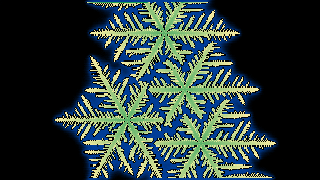
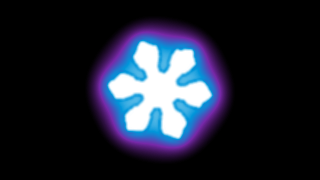
2.0.0-beta.2: three paces restored to 0.1, real numbers on the speed slider (default /5 to x5, dead centre), the Lichtenberg processor-path cascade fixed, a palette per automaton, automata stills rendered on the processor path

diff --git a/morphogen.js b/morphogen.js
@@ -580,8 +580,8 @@
     id: "lenia", family: "ca", name: "Lenia", lattice: "square", channels: 2, grid: "ladder", maxRung: 7, keeps: true, glow: { blur: 0.8, decay: 0.85 },
     source: "B. W.-C. Chan, Complex Systems 28(3) (2019), arXiv:1812.05433",
     params: [
-      { key: "mu", label: "Growth center", min: 0.05, max: 0.40, step: 0.001, def: 0.15 },
-      { key: "sigma", label: "Growth width", min: 0.005, max: 0.050, step: 0.001, def: 0.016 }
+      { key: "mu", label: "Growth center", min: 0.05, max: 0.40, step: 0.001, def: 0.133 },     // owner's centres, 2026-10-09
+      { key: "sigma", label: "Growth width", min: 0.005, max: 0.050, step: 0.001, def: 0.011 }
     ],
     extra: { R: 13, T: 10 },
     init: function () { return [[0, 0, 0, 1]]; },
@@ -718,9 +718,13 @@
             }
             F.set(F2);
           }
+          // the growth sweep reads the discharge as it stood before the sweep (as the graphics path does): updating in
+          // place let a cell that had just broken down make its right and lower neighbours eligible in the same sweep,
+          // which filled a solid block from the seed to the far corner (processor-path defect found 2026-10-09)
+          var G0 = st.g0 && st.g0.length === G.length ? st.g0 : (st.g0 = new Float32Array(G.length)); G0.set(G);
           for (var y2 = 1; y2 < H - 1; y2++) for (var x2 = 1; x2 < W - 1; x2++) {
-            var j = y2 * W + x2; if (G[j] > 0) continue;
-            if ((G[j + 1] > 0 || G[j - 1] > 0 || G[j + W] > 0 || G[j - W] > 0) && rnd() < rate * Math.pow(Math.max(F[j], 0), eta)) { G[j] = X.step; F[j] = 0; }
+            var j = y2 * W + x2; if (G0[j] > 0) continue;
+            if ((G0[j + 1] > 0 || G0[j - 1] > 0 || G0[j + W] > 0 || G0[j - W] > 0) && rnd() < rate * Math.pow(Math.max(F[j], 0), eta)) { G[j] = X.step; F[j] = 0; }
           }
         }
       },
@@ -1766,7 +1770,7 @@
     var familyBtns = $$(scope, "family"), presets = $$(scope, "preset"), notes = $$(scope, "note");
     var p1Range = $(scope, "feed-range"), p1Number = $(scope, "feed-number");
     var p2Range = $(scope, "kill-range"), p2Number = $(scope, "kill-number");
-    var scaleRange = $(scope, "scale-range"), scaleNumber = $(scope, "scale-number");
+    var scaleRange = $(scope, "scale-range"), scaleNumber = $(scope, "scale-number"), speedTicks = $(scope, "speed-ticks");
     var pauseBtn = $(scope, "pause"), resetBtn = $(scope, "reset"), seedBtn = $(scope, "seed");
     var colorsToggle = $(scope, "colors-toggle"), colorsMenu = $(scope, "colors-menu"), paletteRadios = $$(scope, "palette-option");
     var motionBtn = $(scope, "motion"), motionCheck = $(scope, "motion-check"), quality = $(scope, "quality"), measure = $(scope, "measure"), stateLine = $(scope, "state");
@@ -1774,10 +1778,12 @@
     var modeWord = $(scope, "mode"), loading = $(scope, "loading"), brushSel = $(scope, "brush");
     var status = $(scope, "status"), steps = $(scope, "steps");
     var current = null, currentFamily = null, currentPalette = null, thumbs = [], seedClicks = 0;
-    // Speed rides a logarithmic slider centred on the preset's own speed: the slider runs 0 … 1 and maps to
-    // speedDef / 5 … speedDef × 5, so every preset starts mid-range (owner ruling 2026-10-09)
+    // Speed: the preset's own speed sits dead centre and the range runs speedDef / 5 … speedDef × 5 (owner rulings of
+    // 2026-10-09). A native range track is linear in its own value, so the track position is logarithmic and the REAL
+    // speed is what is shown: the value box, the min / default / max labels under the track, and aria-valuetext.
     var speedDef = DEFAULTS.timeScale, SPEED_K = 5;
     function speedFromSlider(s) { return speedDef * Math.pow(SPEED_K, (s - 0.5) * 2); }
+    function fmtSpeed(v) { return v >= 10 ? v.toFixed(1) : v >= 1 ? v.toFixed(2) : v.toFixed(3); }
     function sliderFromSpeed(v) { return clamp(0.5 + Math.log(v / speedDef) / Math.log(SPEED_K) / 2, 0, 1); }
 
     function say(text) { if (status) status.textContent = text; }
@@ -1800,14 +1806,17 @@
       });
       if (p1Label) p1Label.textContent = m.params[0].label + ":"; if (p2Label) p2Label.textContent = m.params[1].label + ":";
       if (p1NumLabel) p1NumLabel.textContent = m.params[0].label + ", exact value"; if (p2NumLabel) p2NumLabel.textContent = m.params[1].label + ", exact value";
+      var sLo = +(speedDef / SPEED_K).toFixed(3), sHi = +(speedDef * SPEED_K).toFixed(3);
       if (scaleRange) { scaleRange.min = "0"; scaleRange.max = "1"; scaleRange.step = "0.005"; }
-      if (scaleNumber) { scaleNumber.min = String(+(speedDef / SPEED_K).toFixed(3)); scaleNumber.max = String(+(speedDef * SPEED_K).toFixed(3)); scaleNumber.step = "0.005"; }
+      if (scaleNumber) { scaleNumber.min = String(sLo); scaleNumber.max = String(sHi); scaleNumber.step = "0.005"; }
+      if (speedTicks) speedTicks.innerHTML = "<span>" + fmtSpeed(sLo) + "</span><span>" + fmtSpeed(speedDef) + "</span><span>" + fmtSpeed(sHi) + "</span>";
     }
     function syncInputs() {
       var m = field.model(), P = field.params(), a = m.params[0], b = m.params[1], t = field.getParams().timeScale;
       if (p1Range) p1Range.value = fmtStep(P[a.key], a.step); if (p1Number) p1Number.value = fmtStep(P[a.key], a.step);
       if (p2Range) p2Range.value = fmtStep(P[b.key], b.step); if (p2Number) p2Number.value = fmtStep(P[b.key], b.step);
-      if (scaleRange) scaleRange.value = sliderFromSpeed(t).toFixed(3); if (scaleNumber) scaleNumber.value = t.toFixed(3);
+      if (scaleRange) { scaleRange.value = sliderFromSpeed(t).toFixed(3); scaleRange.setAttribute("aria-valuetext", fmtSpeed(t) + " (speed; " + fmtSpeed(speedDef) + " is this pattern's own)"); }
+      if (scaleNumber) scaleNumber.value = t.toFixed(3);
     }
     function currentName() { return current ? current.name : "custom"; }
     function updateState() {
@@ -1971,11 +1980,16 @@
   var PRESETS = [
     // —— reaction–diffusion: Gray–Scott in eight regimes, and the phase-field dendrite ——
     // the owner's defaults of 2026-10-09: palette, rates, speed (timeScale) and brush per pattern; each slider is
+    // (automata palettes, one per tile, are the operator's placement of 2026-10-09 except Frost's Cherenkov, which is
+    // the owner's; open for ruling)
+    // (Malachite, Meandric and Xylem were dictated as 0.040 against a build whose speed floor was 0.1: they ran at
+    // 0.1 when approved, and 0.1 is what they keep; the floor was lowered the same day, which is what had made them
+    // 2.5x slower than approved - the 2.0.0-beta.2 correction)
     // centred on these (the binding tailors the ranges), so every pattern starts mid-range
-    { id: "malachite",   family: "rd", name: "Malachite",   model: "gray-scott", palette: "canopy",   params: { feed: 0.008, kill: 0.031 }, timeScale: 0.04, brush: 0.02, seed: { type: "pacemaker", n: 1, r: 3, every: 75 }, firstSeed: "spec", chrono: 420 },
-    { id: "meandric",    family: "rd", name: "Meandric",    model: "gray-scott", palette: "physarum", params: { feed: 0.024, kill: 0.054 }, timeScale: 0.04, brush: 0.02, seed: { type: "spiral", n: 21, r: 3 }, chrono: 2400 },
+    { id: "malachite",   family: "rd", name: "Malachite",   model: "gray-scott", palette: "canopy",   params: { feed: 0.008, kill: 0.031 }, timeScale: 0.1, brush: 0.02, seed: { type: "pacemaker", n: 1, r: 3, every: 75 }, firstSeed: "spec", chrono: 420 },
+    { id: "meandric",    family: "rd", name: "Meandric",    model: "gray-scott", palette: "physarum", params: { feed: 0.024, kill: 0.054 }, timeScale: 0.1, brush: 0.02, seed: { type: "spiral", n: 21, r: 3 }, chrono: 2400 },
     { id: "swarm",       family: "rd", name: "Swarm",       model: "gray-scott", palette: "neon",     params: { feed: 0.013, kill: 0.054 }, timeScale: 2.6,  brush: 0.05, seed: { type: "spiral", n: 21, r: 3 }, chrono: 1800 },
-    { id: "xylem",       family: "rd", name: "Xylem",       model: "gray-scott", palette: "coastal",  params: { feed: 0.039, kill: 0.058 }, timeScale: 0.04, brush: 0.04, seed: { type: "spiral", n: 13, r: 4 }, chrono: 2400 },
+    { id: "xylem",       family: "rd", name: "Xylem",       model: "gray-scott", palette: "coastal",  params: { feed: 0.039, kill: 0.058 }, timeScale: 0.1, brush: 0.04, seed: { type: "spiral", n: 13, r: 4 }, chrono: 2400 },
     // Frost in this family is the phase-field dendrite: a reaction–diffusion system (Allen–Cahn plus heat)
     { id: "frost",       family: "rd", name: "Frost",       model: "dendrite",   params: {}, palette: "cherenkov", timeScale: 0.3, seed: { type: "center", r: 2 }, firstSeed: "spec", thumbSeed: { type: "spiral", n: 3, r: 1.5, spread: 0.75 }, thumbSteps: 5000, thumbScale: 4, chrono: 1600, brush: 0.004 },
     { id: "turbulence",  family: "rd", name: "Turbulence",  model: "gray-scott", palette: "accretion", params: { feed: 0.025, kill: 0.050 }, timeScale: 1.0, brush: 0.05, seed: { type: "discs", n: 7, r: 4 }, chrono: 1800 },
@@ -1994,15 +2008,15 @@
 
     // —— cellular automata ——
     { id: "ca-frost",     family: "ca", name: "Frost",       model: "snow",        params: {}, palette: "cherenkov", seed: { type: "center", r: 1 }, brush: 0.004, stepScale: 1, thumbSeed: { type: "spiral", n: 4, r: 1, spread: 0.8 }, thumbSteps: 900, thumbScale: 2, chrono: 3000 },
-    { id: "lenia",        family: "ca", name: "Lenia",       model: "lenia",       params: {}, seed: { type: "fill" }, firstSeed: "spec", brush: 0.08, stepScale: 0.1, thumbSeed: { type: "fill" }, thumbSteps: 300, chrono: 600 },
-    { id: "rotor",        family: "ca", name: "Rotor",       model: "rotor",       params: {}, seed: { type: "fill" }, firstSeed: "spec", brush: 0.08, stepScale: 0.3, thumbSeed: { type: "fill" }, thumbSteps: 260, thumbScale: 2, chrono: 400 },
-    { id: "lichtenberg",  family: "ca", name: "Lichtenberg", model: "lichtenberg", params: {}, timeScale: 0.25, seed: { type: "center", r: 2 }, firstSeed: "spec", brush: 0.004, thumbSteps: 500, thumbScale: 1.5, chrono: 1200 },
+    { id: "lenia",        family: "ca", name: "Lenia",       model: "lenia",       palette: "aurora", params: {}, timeScale: 0.25, seed: { type: "fill" }, firstSeed: "spec", brush: 0.10, stepScale: 0.3, thumbSeed: { type: "fill" }, thumbSteps: 300, chrono: 600 },
+    { id: "rotor",        family: "ca", name: "Rotor",       model: "rotor",       palette: "spectrum", params: {}, seed: { type: "fill" }, firstSeed: "spec", brush: 0.08, stepScale: 0.3, thumbSeed: { type: "fill" }, thumbSteps: 260, thumbScale: 2, chrono: 400 },
+    { id: "lichtenberg",  family: "ca", name: "Lichtenberg", model: "lichtenberg", palette: "orodruin", params: {}, timeScale: 0.25, seed: { type: "center", r: 2 }, firstSeed: "spec", brush: 0.004, thumbSteps: 500, thumbScale: 1.5, chrono: 1200 },
     // Sandpile: falling sand (owner 2026-10-09: "give the sandpile gravity"); the drop point keeps dropping until Reset
-    { id: "sandpile",     family: "ca", name: "Sandpile",    model: "sand",        params: {}, seed: { type: "pacemaker", n: 1, r: 1, every: 2 }, firstSeed: "spec", brush: 0.01, thumbSeed: { type: "center", r: 1 }, thumbStir: { every: 2, spec: { type: "center", r: 1 } }, thumbSteps: 900, thumbScale: 2, chrono: 1200 },
-    { id: "conus",        family: "ca", name: "Conus",       model: "conus",       params: {}, seed: { type: "center", r: 1 }, firstSeed: "spec", brush: 0.004, stepScale: 0.35, thumbSeed: { type: "center", r: 1 }, thumbSteps: 108, thumbScale: 2, chrono: 300 },
-    { id: "wildfire",     family: "ca", name: "Wildfire",    model: "wildfire",    params: {}, seed: { type: "fill" }, firstSeed: "spec", brush: 0.03, stepScale: 0.4, thumbSeed: { type: "fill" }, thumbSteps: 400, thumbScale: 2, chrono: 900 },
-    { id: "grain",        family: "ca", name: "Grain",       model: "grain",       params: {}, seed: { type: "fill" }, firstSeed: "spec", brush: 0.08, stepScale: 0.5, thumbSeed: { type: "fill" }, thumbSteps: 400, thumbScale: 2, chrono: 1200 },
-    { id: "wake",         family: "ca", name: "Wake",        model: "wake",        params: {}, timeScale: 1.5, seed: { type: "center", r: 9 }, firstSeed: "spec", brush: 0.004, thumbSeed: { type: "center", r: 6 }, thumbSteps: 600, thumbScale: 2, chrono: 1800 }
+    { id: "sandpile",     family: "ca", name: "Sandpile",    model: "sand",        palette: "accretion", params: {}, seed: { type: "pacemaker", n: 1, r: 1, every: 2 }, firstSeed: "spec", brush: 0.01, thumbSeed: { type: "center", r: 1 }, thumbStir: { every: 2, spec: { type: "center", r: 1 } }, thumbSteps: 900, thumbScale: 2, chrono: 1200 },
+    { id: "conus",        family: "ca", name: "Conus",       model: "conus",       palette: "physarum", params: {}, seed: { type: "center", r: 1 }, firstSeed: "spec", brush: 0.004, stepScale: 0.35, thumbSeed: { type: "center", r: 1 }, thumbSteps: 108, thumbScale: 2, chrono: 300 },
+    { id: "wildfire",     family: "ca", name: "Wildfire",    model: "wildfire",    palette: "neon", params: {}, seed: { type: "fill" }, firstSeed: "spec", brush: 0.03, stepScale: 0.4, thumbSeed: { type: "fill" }, thumbSteps: 400, thumbScale: 2, chrono: 900 },
+    { id: "grain",        family: "ca", name: "Grain",       model: "grain",       palette: "canopy", params: {}, seed: { type: "fill" }, firstSeed: "spec", brush: 0.08, stepScale: 0.5, thumbSeed: { type: "fill" }, thumbSteps: 400, thumbScale: 2, chrono: 1200 },
+    { id: "wake",         family: "ca", name: "Wake",        model: "wake",        palette: "coastal", params: {}, timeScale: 1.5, seed: { type: "center", r: 9 }, firstSeed: "spec", brush: 0.004, thumbSeed: { type: "center", r: 6 }, thumbSteps: 600, thumbScale: 2, chrono: 1800 }
   ];
   function presetById(id) { for (var i = 0; i < PRESETS.length; i++) if (PRESETS[i].id === id) return PRESETS[i]; return null; }
 

diff --git a/tools/render-media.js b/tools/render-media.js
@@ -6,9 +6,9 @@
 //   node tools/render-media.js            → docs/media/*.png and *.gif for the reaction–diffusion presets
 //   node tools/render-media.js vortex     → only the scenes whose name contains "vortex"
 //
-// The automata run thousands of lattice steps at full resolution, which the processor path cannot do in
-// reasonable time; their stills come from the graphics processor through tools/capture.html, which saves
-// each tile at docs/media/preset-<id>.png from a browser.
+// The automata and the phase-field dendrite render here too, at 320 x 180 on the processor path (a minute or
+// two each; the snow crystal and the fluid the longest); tools/capture.html remains as the graphics-processor
+// route for stills at the demo's own resolution.
 "use strict";
 const fs = require("fs");
 const path = require("path");
@@ -132,6 +132,11 @@ for (const p of gs) {
   const vortex = p.id === "vortex", malachite = p.id === "malachite";
   still("preset-" + p.id, { preset: p, width: vortex ? 640 : 320, height: vortex ? 360 : 180, seed: vortex ? null : p.seed, pointer: vortex ? stirPointer : null,
     seconds: malachite ? 40 : (p.id === "phyllotaxis" ? 12 : (vortex ? 12 : 10)), timeScale: malachite ? 0.3 : 0.75, palette: "canopy" });
+}
+// the automata and the phase-field dendrite: each at its own palette and seeding, long enough to show its regime
+const CA_SECONDS = { "ca-frost": 25, lenia: 12, rotor: 10, lichtenberg: 20, sandpile: 12, conus: 8, wildfire: 20, grain: 12, wake: 15, frost: 12 };
+for (const p of M.presets.filter(q => q.model !== "gray-scott")) {
+  still("preset-" + p.id, { preset: p, width: 320, height: 180, seed: p.seed, seconds: CA_SECONDS[p.id] || 12, palette: p.palette });
 }
 gif("hover-seeding", { preset: presets.malachite, width: W, height: H, seconds: 8, pointer: strokePointer, gifFps: 12, timeScale: 0.75, palette: "canopy" });
 gif("phyllotaxis", { preset: presets.phyllotaxis, width: W, height: H, seed: presets.phyllotaxis.seed, seconds: 12, gifFps: 10, palette: "aurora" });

diff --git a/morphogen.css b/morphogen.css
@@ -133,6 +133,8 @@
 /* paired boxes: Resolution beside Brush width; the measure spans both */
 .rd__pair { display: grid; grid-template-columns: 1fr 1fr; gap: 17px; }
 .rd__pair > label { display: grid; gap: 5px; font-family: var(--font-mono, ui-monospace, monospace); font-size: 11px; letter-spacing: .04em; text-transform: uppercase; color: var(--text-2, #4A4A4A); min-width: 0; }
+.rd__ticks { grid-column: 2; display: flex; justify-content: space-between; margin-top: -9px; font-family: var(--font-mono, ui-monospace, monospace); font-size: 11px; letter-spacing: .03em; color: var(--text-3, #6B6B6B); }
+.rd__ticks span:nth-child(2) { color: var(--text-2, #4A4A4A); }
 .rd__number-label { position: absolute; width: 1px; height: 1px; overflow: hidden; clip: rect(0 0 0 0); white-space: nowrap; }
 /* the accessibility toggles: a check box with its name inside one labelled control, Reduced motion and Hover mode
    sharing one line (the Resolution / Brush width split), stacking on phones; a checked toggle takes the site's pressed treatment */

diff --git a/index.html b/index.html
@@ -104,9 +104,10 @@
           </div>
           <div class="rd__param">
             <label for="rd-scale-range">Speed:</label>
-            <input id="rd-scale-range" type="range" min="0" max="1" step="0.005" value="0.5" data-rd="scale-range" aria-valuetext="0.75">
+            <input id="rd-scale-range" type="range" min="0" max="1" step="0.005" value="0.5" data-rd="scale-range" aria-valuetext="0.1">
             <label class="rd__number-label" for="rd-scale-number">Speed, exact value</label>
-            <input id="rd-scale-number" type="number" min="0.15" max="3.75" step="0.005" value="0.75" inputmode="decimal" data-rd="scale-number">
+            <input id="rd-scale-number" type="number" min="0.02" max="0.5" step="0.005" value="0.1" inputmode="decimal" data-rd="scale-number">
+            <span class="rd__ticks" data-rd="speed-ticks" aria-hidden="true"><span>0.02</span><span>0.1</span><span>0.5</span></span>
           </div>
         </div>
         <div class="rd__group" role="group" aria-label="Resolution">

diff --git a/README.md b/README.md
@@ -122,15 +122,15 @@ step, in conservative staggered form, on the canvas's own pixels.
 
 | Preset | Model | Parameters | Looks like |
 |---|---|---|---|
-| ![](docs/media/preset-ca-frost.png) **Frost** | Gravner–Griffeath snow crystal (2008) | vapor 0.65 · anisotropy 1.75 | a hexagonal plate growing six arms, on a hexagonal lattice that follows the Resolution rung |
-| ![](docs/media/preset-lenia.png) **Lenia** | Chan 2019 | growth center 0.15 · width 0.016 | smooth, self-propelling creatures from a patch of soup |
-| ![](docs/media/preset-rotor.png) **Rotor** | cyclic automaton (Griffeath) | 8 states · threshold 2 | spiral rotors self-organizing from noise |
-| ![](docs/media/preset-lichtenberg.png) **Lichtenberg** | dielectric breakdown (Niemeyer–Pietronero–Wiesmann 1984) | exponent 2.1 · rate 1.3 | lightning and Lichtenberg figures; exponent 1 is diffusion-limited aggregation |
+| **Frost** | Gravner–Griffeath snow crystal (2008) | vapor 0.65 · anisotropy 1.75 | a hexagonal plate growing six arms, on a hexagonal lattice that follows the Resolution rung |
+| ![](docs/media/preset-lenia.png) **Lenia** | Chan 2019 | growth center 0.133 · width 0.011 | smooth, self-propelling creatures from a patch of soup |
+| **Rotor** | cyclic automaton (Griffeath) | 5 states · threshold 3 | spiral rotors self-organizing from noise |
+| **Lichtenberg** | dielectric breakdown (Niemeyer–Pietronero–Wiesmann 1984) | exponent 2.1 · rate 1.3 | lightning and Lichtenberg figures; exponent 1 is diffusion-limited aggregation |
 | ![](docs/media/preset-sandpile.png) **Sandpile** | falling sand (Toffoli–Margolus 1987) | grains 4 · slip 0.7 | a drop point pours sand that heaps at the angle of repose and avalanches |
 | ![](docs/media/preset-conus.png) **Conus** | elementary automaton (Wolfram) | rule 30 · density 0 | the cone-snail shell, rows laid down in time |
-| ![](docs/media/preset-wildfire.png) **Wildfire** | forest fire (Drossel–Schwabl 1992) | growth 0.005 · lightning 0.00002 | fractal fire fronts through a self-organizing forest |
-| ![](docs/media/preset-grain.png) **Grain** | Potts grain growth (Anderson et al. 1984) | 12 orientations · temperature 0.6 | polycrystalline coarsening, a moving micrograph |
-| ![](docs/media/preset-wake.png) **Wake** | lattice-Boltzmann fluid (D2Q9, BGK) | flow 0.115 · viscosity 0.005 | a von Kármán vortex street behind an obstacle you paint |
+| **Wildfire** | forest fire (Drossel–Schwabl 1992) | growth 0.005 · lightning 0.00002 | fractal fire fronts through a self-organizing forest |
+| **Grain** | Potts grain growth (Anderson et al. 1984) | 12 orientations · temperature 0.6 | polycrystalline coarsening, a moving micrograph |
+| **Wake** | lattice-Boltzmann fluid (D2Q9, BGK) | flow 0.115 · viscosity 0.005 | a von Kármán vortex street behind an obstacle you paint |
 
 Each automaton's rule is stated in the demo's note for its tile, with its law in MathML, and in the
 comment at the head of its source file.
@@ -154,7 +154,7 @@ All of them are optional.
 | `note` | any element with `data-rd-for="<preset id>"` | Shown while that preset is active, hidden otherwise |
 | `feed-range` / `feed-number` | `<input type="range">` / `<input type="number">` | The preset's first parameter; the pair tracks itself; its label, range and step follow the preset |
 | `kill-range` / `kill-number` | as above | The second parameter |
-| `scale-range` / `scale-number` | as above | Speed, on a logarithmic slider centered on the preset's speed (a fifth to five times it) |
+| `scale-range` / `scale-number` | as above | Speed, centered on the preset's own speed, a fifth to five times it: the track is logarithmic so the preset sits mid-track, and the real value is read from the number box, the labels under the track (`speed-ticks`) and the slider's value text |
 | `pause` | `<button>` | Pause / Play; its text and label follow the state |
 | `reset` | `<button>` | Clears the field to the ground color |
 | `seed` | `<button>` | Starts the pattern at the center; later presses place one random point (a preset may run its own opening on every press) |

diff --git a/CHANGELOG.md b/CHANGELOG.md
@@ -3,6 +3,24 @@
 All notable changes to Morphogen are recorded here. The format follows Keep a Changelog; the
 project follows Semantic Versioning.
 
+## [2.0.0-beta.2] — 2026-10-09
+
+A correction release within the beta.
+
+- **Three paces restored.** Malachite, Meandric and Xylem default to a speed of 0.1. Their 0.04 in
+  beta.1 was dictated against a build whose speed floor was 0.1, so they had run at 0.1 when approved;
+  beta.1 lowered the floor to 0.005 and took 0.04 literally, which made them 2.5 × slower than approved.
+- **The speed slider shows real numbers.** Its range is the preset's own speed divided by five to
+  multiplied by five, with the preset dead centre: the track is logarithmic, and the real speed is what
+  is read — the value box, the min / default / max labels under the track, and the slider's value text.
+- **Lichtenberg on the processor path no longer fills a block.** Its growth sweep updated the lattice
+  in place, so a cell that had just broken down made its right and lower neighbours eligible in the
+  same sweep. The sweep now reads a snapshot, as the graphics path always did.
+- **Every automaton now has its own palette** (Frost Cherenkov, Lenia Aurora, Rotor Spectrum,
+  Lichtenberg Orodruin, Sandpile Accretion, Conus Physarum, Wildfire Neon, Grain Canopy, Wake
+  Coastal), applied when its tile is chosen, as the reaction–diffusion tiles already did.
+- README: Lenia and Rotor rows carry the released defaults (0.133 / 0.011; 5 states, threshold 3).
+
 ## [2.0.0-beta.1] — 2026-10-09
 
 The engine overhaul, as a pre-release: the architecture and the eighteen patterns are in place and
